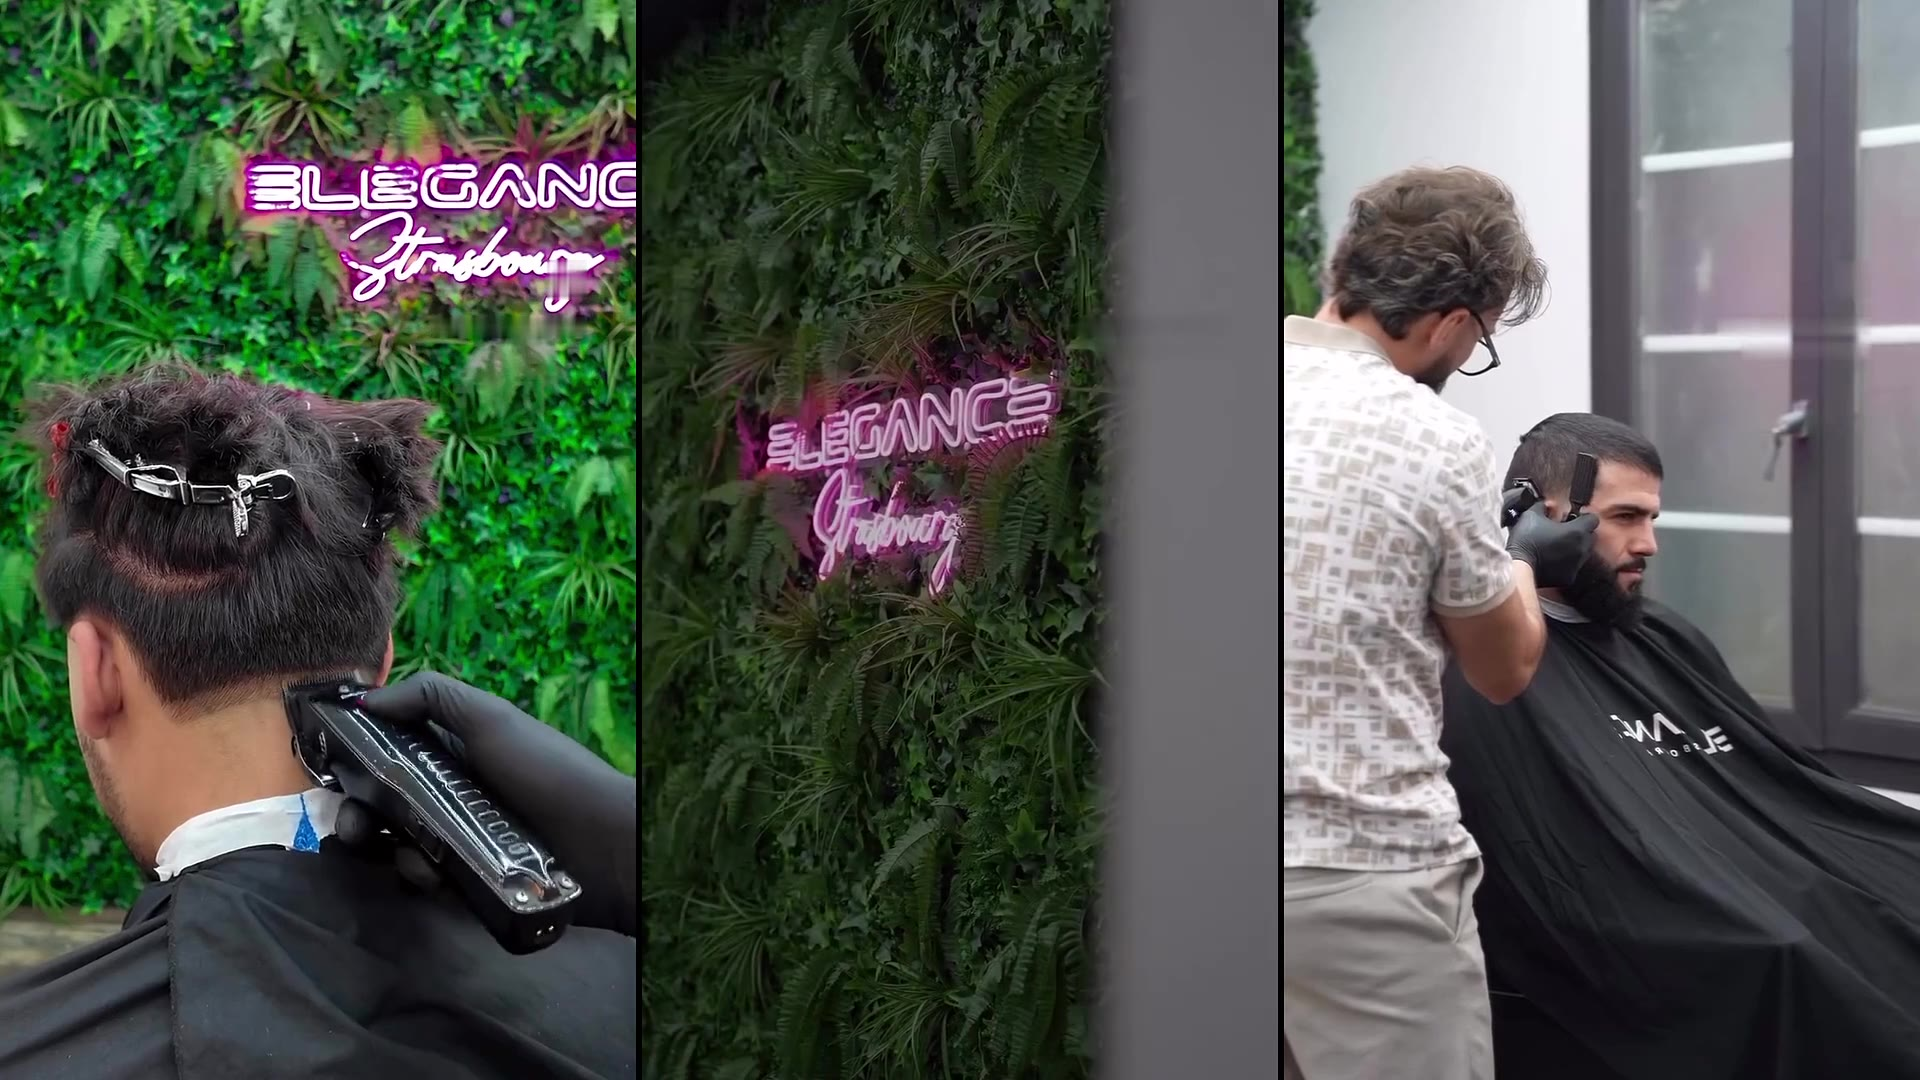
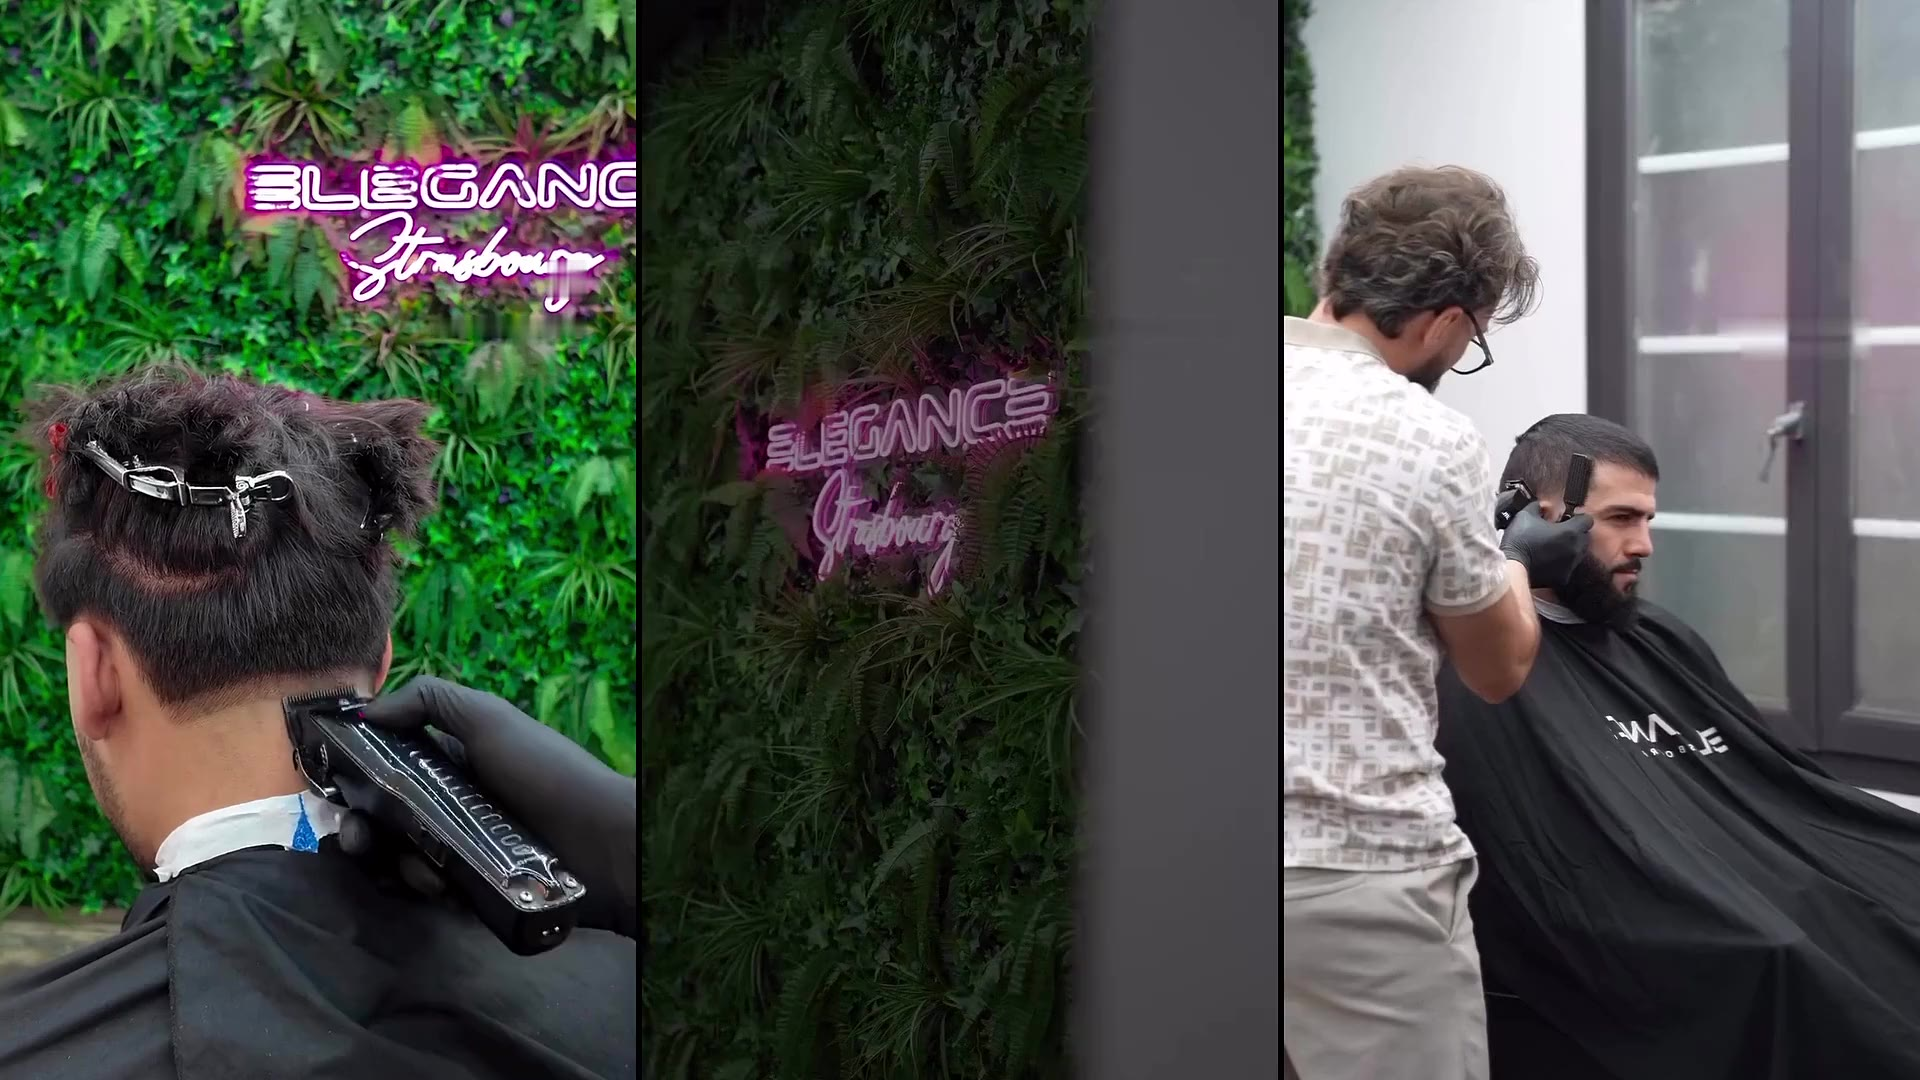
Accueil : plus aucun mouvement au chargement
- Fichiers CSS et JS versionnés : le navigateur ne garde plus l'ancienne
  feuille de style (qui contenait l'animation).
- Polices chargées sans substitution (plus de texte qui change de forme).
- La bonne vidéo et sa bonne image d'attente sont choisies dès
  l'affichage (plus de changement d'image sur téléphone) ; l'image
  d'attente est la toute première image de la vidéo.

Claude-Session: https://claude.ai/code/session_01GNP9iCmSgibcJGnuJqLZRc

diff --git a/index.html b/index.html
@@ -5,9 +5,11 @@
   <meta name="viewport" content="width=device-width, initial-scale=1.0, viewport-fit=cover">
   <title>Élégance Strasbourg</title>
   <meta name="description" content="Elegance Strasbourg, barbier à Schiltigheim (162 route de Bischwiller) : coupe homme, dégradé, taille de barbe et soin du visage. Noté 4,8/5 sur Google. Réservez en ligne.">
+  <link rel="preload" href="fonts/michroma-latin.woff2" as="font" type="font/woff2" crossorigin>
+  <link rel="preload" href="fonts/allura-latin.woff2" as="font" type="font/woff2" crossorigin>
   <link rel="preconnect" href="https://fonts.googleapis.com">
   <link rel="preconnect" href="https://fonts.gstatic.com" crossorigin>
-  <link href="https://fonts.googleapis.com/css2?family=Michroma&family=Allura&family=Cormorant+Garamond:ital,wght@0,500;1,400;1,500&family=Inter+Tight:wght@300;400;500;600&display=swap" rel="stylesheet">
+  <link href="https://fonts.googleapis.com/css2?family=Cormorant+Garamond:ital,wght@0,500;1,400;1,500&family=Inter+Tight:wght@300;400;500;600&display=block" rel="stylesheet">
   <link rel="icon" href="favicon.svg" type="image/svg+xml">
   <meta name="theme-color" content="#09090b">
   <meta property="og:type" content="website">
@@ -34,7 +36,7 @@
     "openingHoursSpecification": [{ "@type": "OpeningHoursSpecification", "dayOfWeek": ["Tuesday", "Wednesday", "Thursday", "Friday", "Saturday"], "opens": "10:00", "closes": "19:00" }]
   }
   </script>
-  <link rel="stylesheet" href="styles.css">
+  <link rel="stylesheet" href="styles.css?v=20261112">
   <script>if (!matchMedia("(prefers-reduced-motion: reduce)").matches) document.documentElement.classList.add("intro");</script>
 </head>
 <body>
@@ -64,6 +66,7 @@
   <section class="hero" id="accueil" data-rail="Accueil">
     <div class="hero__media" aria-hidden="true">
       <video class="hero__video" id="heroVideo" poster="videos/accueil-large.jpg" data-src-large="videos/accueil-large.mp4" data-poster-large="videos/accueil-large.jpg" data-src-small="videos/accueil.mp4" data-poster-small="videos/accueil.jpg" autoplay muted loop playsinline preload="auto"></video>
+      <script>(function(){var v=document.getElementById("heroVideo"),l=matchMedia("(min-width: 961px)").matches;v.poster=l?v.dataset.posterLarge:v.dataset.posterSmall;v.src=l?v.dataset.srcLarge:v.dataset.srcSmall;})();</script>
     </div>
     <div class="hero__center">
       <h1 class="hero__title" aria-label="Elegance Strasbourg">
@@ -323,9 +326,9 @@
   </div>
 </footer>
 
-<script src="config.js"></script>
+<script src="config.js?v=20261112"></script>
 <script src="https://cdn.jsdelivr.net/npm/@supabase/supabase-js@2.45.4/dist/umd/supabase.js"></script>
 <script src="https://cdn.jsdelivr.net/npm/lenis@1.1.13/dist/lenis.min.js"></script>
-<script src="script.js"></script>
+<script src="script.js?v=20261112"></script>
 </body>
 </html>

diff --git a/script.js b/script.js
@@ -380,14 +380,6 @@ if (!reduced && "IntersectionObserver" in window) {
   });
 }
 
-// ===================== Bannière : vidéo adaptée à l'écran =====================
-// Ordinateur : version horizontale plein écran ; téléphone : version verticale pleine résolution.
-(() => {
-  const v = $("#heroVideo"); if (!v) return;
-  const size = matchMedia("(min-width: 961px)").matches ? "large" : "small";
-  v.poster = v.dataset["poster" + (size === "large" ? "Large" : "Small")];
-  v.src = v.dataset["src" + (size === "large" ? "Large" : "Small")];
-})();
 
 // ===================== Vidéos : lecture seulement quand elles sont à l'écran =====================
 // Économise la batterie et le processeur ; aucune lecture automatique si l'appareil limite les animations.
